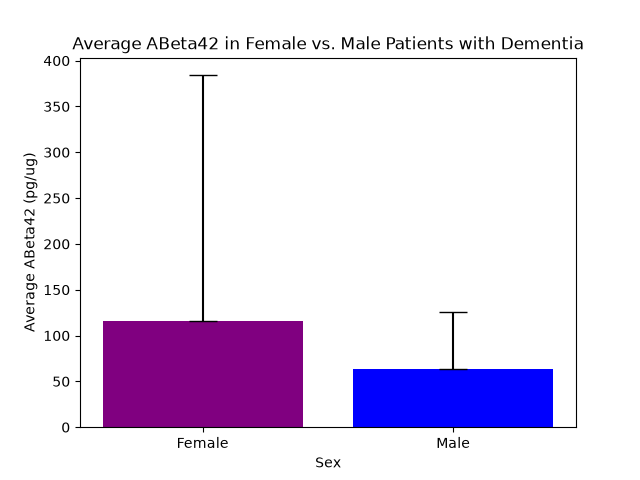
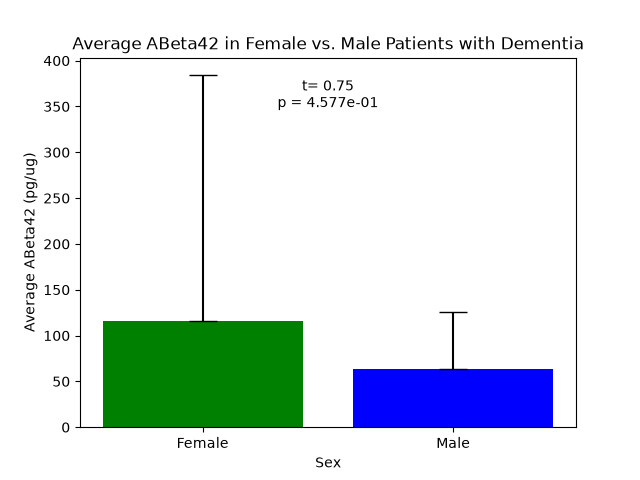
data in plot with regression and bar graphs

Changed region(s): [[0.1562, 0.6562, 0.5, 0.9062], [0.4375, 0.1562, 0.5938, 0.2188]]

diff --git a/main_p_vic.py b/main_p_vic.py
@@ -1,3 +1,11 @@
+import matplotlib.pyplot as pit
+from scipy import stats
+import numpy as np
+import statistics
+import pandas as pd
+from sklearn.linear_model import LinearRegression
+
+
 from patient import Patient
 import matplotlib.pyplot as plt
 import numpy as np
@@ -113,12 +121,19 @@ yerr = [
     stdev_abeta42
 ]
 
+t_stat, p_val= stats.ttest_ind(
+    abeta42_female_patients,
+    abeta42_male_patients
+)
+print(f't_stat = {t_stat}, p_val = {p_val}')
+
+
 plt.bar(
     sex_cols,
     mean_abeta42,
     yerr=yerr,
     capsize=10,
-    color=["purple", "blue"]
+    color=["green", "blue"]
 )
 
 plt.title(
@@ -127,6 +142,16 @@ plt.title(
 
 plt.xlabel("Sex")
 plt.ylabel("Average ABeta42 (pg/ug)")
+
+#t-test labels
+y_max= max(mean_abeta42) + max(stdev_abeta42)
+plt.text(
+    0.5,
+    y_max -40,
+    f"t= {t_stat:.2f}\np = {p_val:.3e}",
+    ha="center",
+    va="bottom"
+)
 
 plt.savefig("abeta42_bar_graph.png")
 plt.show()
@@ -137,21 +162,16 @@ patient_age_at_death = []
 patient_abeta42 = []
 
 for patient in Patient.all_patients:
-    patient_age_at_death.append(
-        patient.age_at_death
-    )
-
-for patient in Patient.all_patients:
-    patient_abeta42.append(
-        patient.abeta42
-    )
+    patient_age_at_death.append(patient.age_at_death)
+    patient_abeta42.append(patient.abeta42)
 
 
 # Age at death is the independent variable.
 X = patient_age_at_death
-
+X=np.array(patient_age_at_death).reshape(-1,1)
 # ABeta42 is the dependent variable.
 y = patient_abeta42
+y = np.array(patient_abeta42)
 
 
 # Make the scatter plot.
@@ -168,5 +188,122 @@ plt.title(
     "Scatter Plot of ABeta42 vs. Age at Death"
 )
 
+#Linear regression
+model = LinearRegression()
+model.fit(X,y)
+slope = model.coef_[0]
+intercept = model.intercept_
+r_squared = model.score(X,y)
+
+equation = f"y = {slope:.2f}x + {intercept:.2f}"
+
+plt.plot(
+    X,
+    model.predict(X)
+)
+plt.text(
+    max(patient_age_at_death) -15,
+    max(patient_abeta42) -60,
+    f"{equation}\nR^2 = {r_squared:.2f}"
+)
+
+
 plt.savefig("abeta42_scatter_plot.png")
+plt.show()
+
+#outlier IQR rule
+q1= np.percentile(patient_abeta42, 25)
+q3= np.percentile(patient_abeta42, 75)
+
+iqr = q3- q1
+
+lower_bound = q1 - 1.5 * iqr
+upper_bound = q3 + 1.5 * iqr
+
+#identifying outlier
+
+for patient in Patient.all_patients:
+    if (
+        patient.abeta42 < lower_bound
+        or patient.abeta42 > upper_bound
+    ): 
+        print(
+            "outlier:",
+            patient.age_at_death,
+            patient.abeta42
+        )
+#regression plot without outliers vs with
+model_all = LinearRegression()
+model_all.fit(X, y)
+
+print("WITH OUTLIERS")
+print("Slope =", model_all.coef_[0])
+print("Intercept =", model_all.intercept_)
+print("R^2 =", model_all.score(X, y))
+
+
+# Remove IQR outliers
+age_no_outliers = []
+abeta42_no_outliers = []
+
+for patient in Patient.all_patients:
+    if (
+        patient.abeta42 >= lower_bound
+        and patient.abeta42 <= upper_bound
+    ):
+        age_no_outliers.append(patient.age_at_death)
+        abeta42_no_outliers.append(patient.abeta42)
+
+
+X_no = np.array(age_no_outliers).reshape(-1, 1)
+y_no = np.array(abeta42_no_outliers)
+
+
+# Regression without outliers
+model_no = LinearRegression()
+model_no.fit(X_no, y_no)
+
+print("\nWITHOUT OUTLIERS")
+print("Slope =", model_no.coef_[0])
+print("Intercept =", model_no.intercept_)
+print("R^2 =", model_no.score(X_no, y_no))
+# Plot regression WITH outliers
+plt.scatter(
+    X,
+    y,
+    color="green",
+    label="All data"
+)
+
+plt.plot(
+    X,
+    model_all.predict(X),
+    label="Regression with outliers"
+)
+
+
+# Plot regression WITHOUT outliers
+plt.scatter(
+    X_no,
+    y_no,
+    color="blue",
+    label="Data without outliers"
+)
+
+plt.plot(
+    X_no,
+    model_no.predict(X_no),
+    label="Regression without outliers"
+)
+
+
+plt.xlabel("Age at Death")
+plt.ylabel("ABeta42 (pg/ug)")
+
+plt.title(
+    "ABeta42 vs. Age at Death: Outlier Comparison"
+)
+
+plt.legend()
+
 plt.show()
